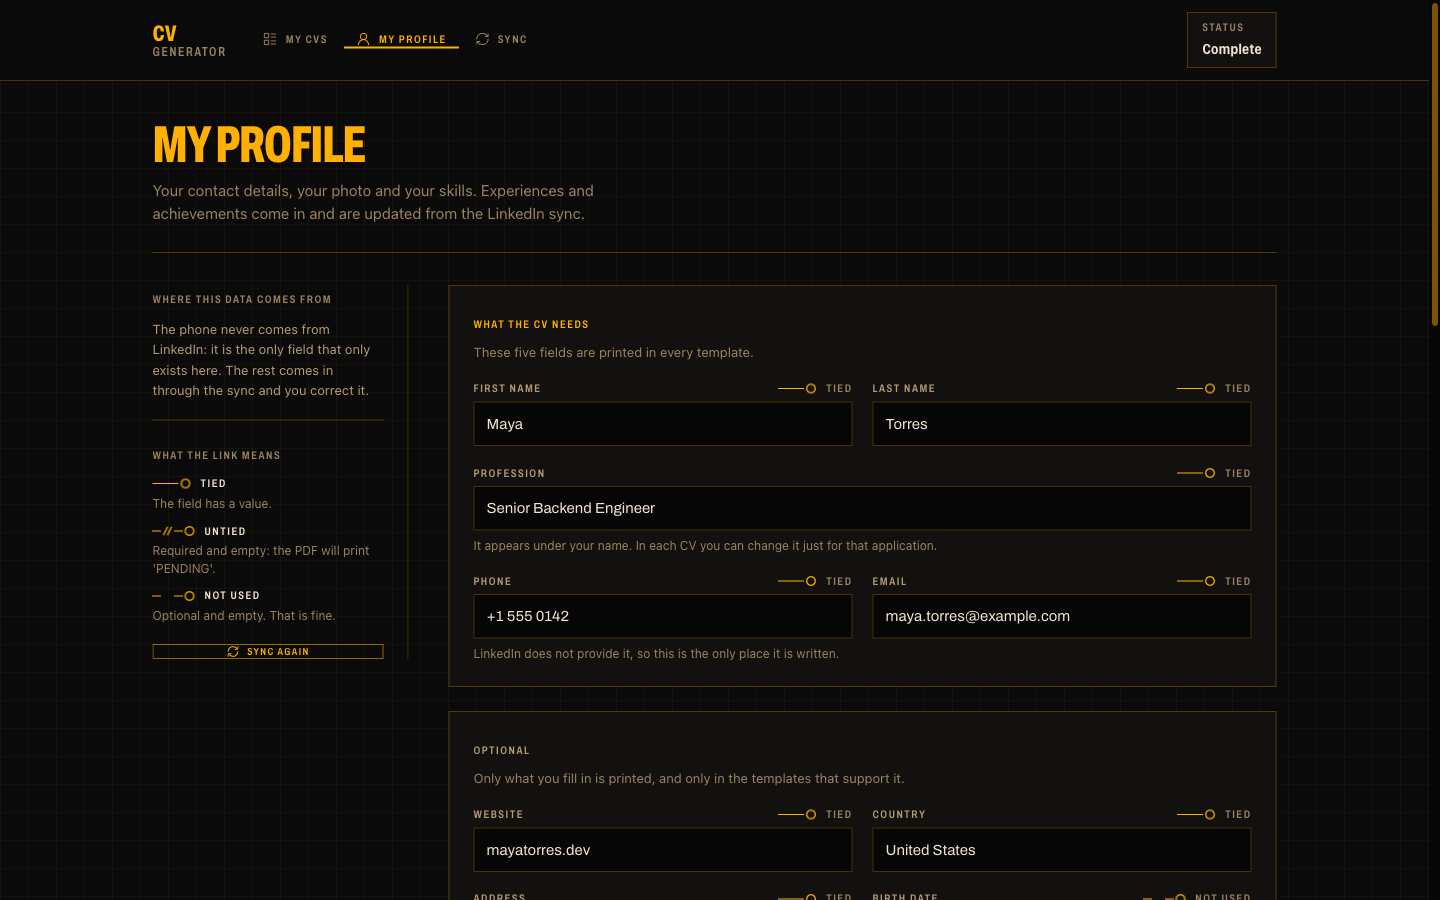
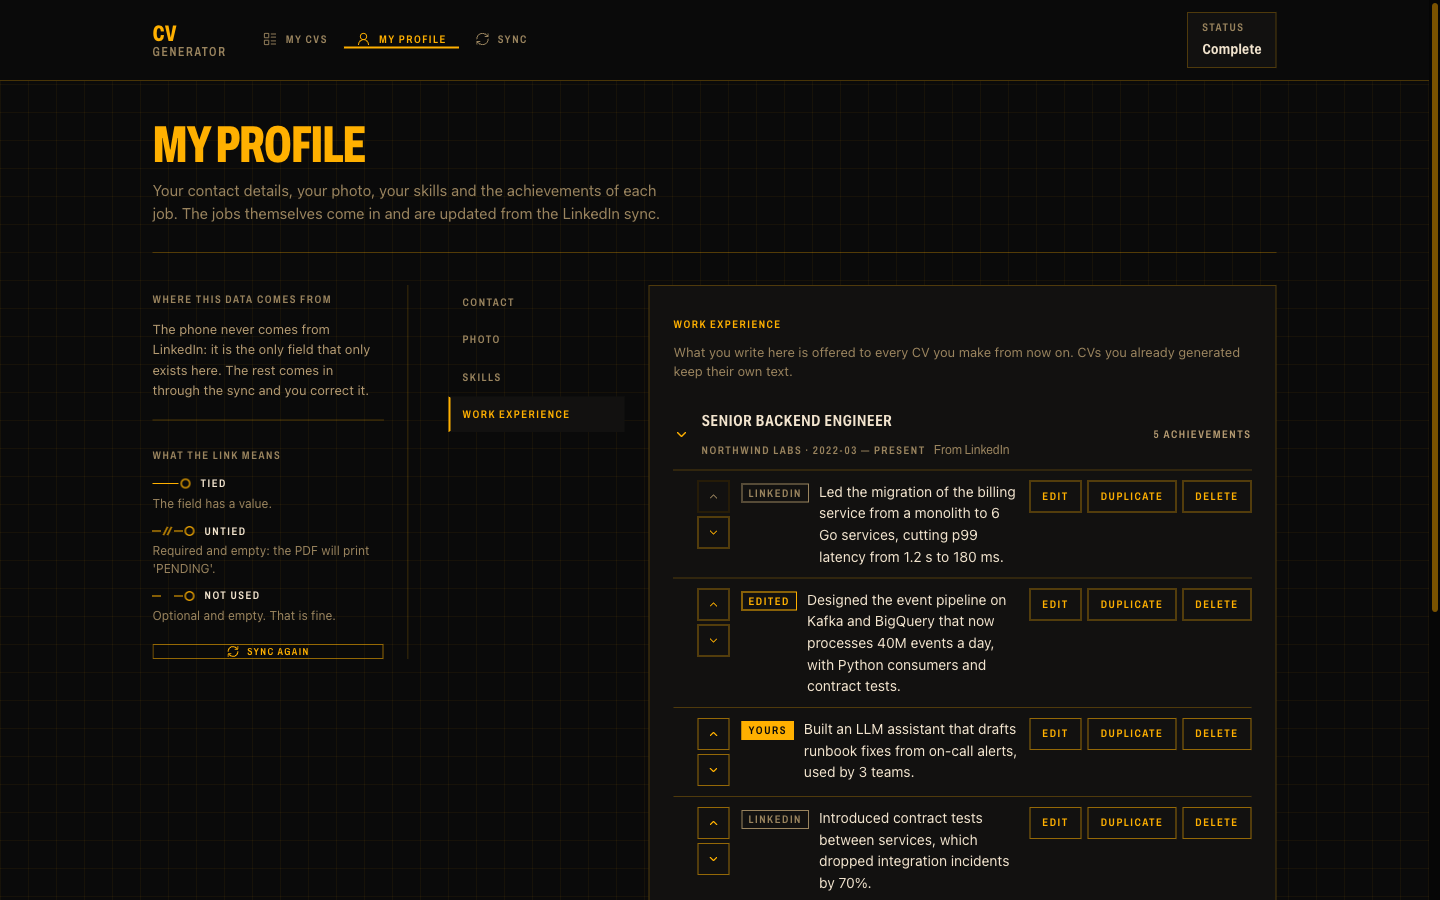
Show the Work experience subsection in the README's My profile screenshot
The screenshot still showed the old single-column page. It now shows the side menu and
the achievements of a job with their LinkedIn, Edited and Yours tags, on the same
fictional profile as the other screenshots.

diff --git a/README.md b/README.md
@@ -126,8 +126,8 @@ If you can try one of these, the checklist is in [docs/manual-testing.md](docs/m
 
 <table>
   <tr>
-    <td width="50%"><img src="docs/screenshots/profile.png" alt="My profile page"><br>
-      <sub><b>My profile.</b> What LinkedIn does not provide, like the phone.</sub></td>
+    <td width="50%"><img src="docs/screenshots/profile.png" alt="My profile, Work experience subsection"><br>
+      <sub><b>My profile.</b> Rewrite, duplicate or add the achievements of each job for the next CVs.</sub></td>
     <td width="50%"><img src="docs/screenshots/wizard-template.png" alt="Wizard step 1, choosing the template"><br>
       <sub><b>Step 1, template.</b> Every thumbnail is your own CV, really rendered.</sub></td>
   </tr>
